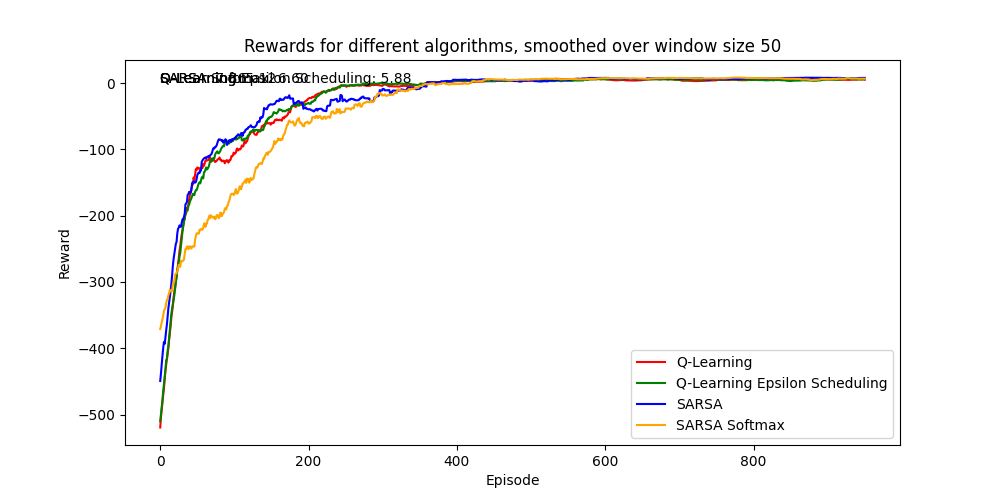
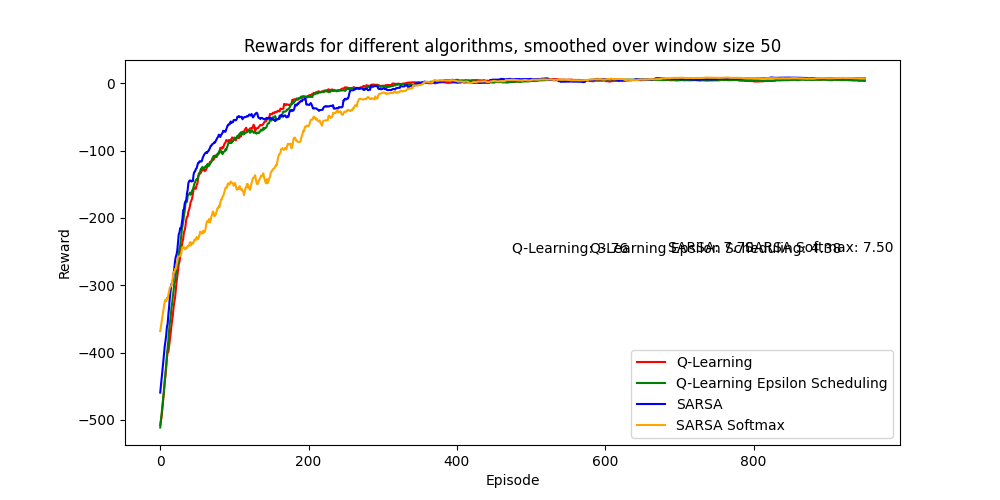
ADD(text): Correct text position.

diff --git a/taxi.py b/taxi.py
@@ -138,10 +138,23 @@ if __name__ == "__main__":
     ax.plot(sarsa_rewards, label="SARSA", color="blue")
     ax.plot(sarsa_softmax_rewards, label="SARSA Softmax", color="orange")
 
-    ax.text(0, 0, f"Q-Learning: {final_ql_reward:.2f}")
-    ax.text(0, 0, f"Q-Learning Epsilon Scheduling: {final_ql_eps_reward:.2f}")
-    ax.text(0, 0, f"SARSA: {final_sarsa_reward:.2f}")
-    ax.text(0, 0, f"SARSA Softmax: {final_sarsa_softmax_reward:.2f}")
+    text_kwargs = dict(
+        ha="center", va="center", fontsize=28, color="C1", transform=ax.transAxes
+    )
+    ax.text(0.5, 0.5, f"Q-Learning: {final_ql_reward:.2f}", transform=ax.transAxes)
+    ax.text(
+        0.6,
+        0.5,
+        f"Q-Learning Epsilon Scheduling: {final_ql_eps_reward:.2f}",
+        transform=ax.transAxes,
+    )
+    ax.text(0.7, 0.5, f"SARSA: {final_sarsa_reward:.2f}", transform=ax.transAxes)
+    ax.text(
+        0.8,
+        0.5,
+        f"SARSA Softmax: {final_sarsa_softmax_reward:.2f}",
+        transform=ax.transAxes,
+    )
 
     ax.set_xlabel("Episode")
 
